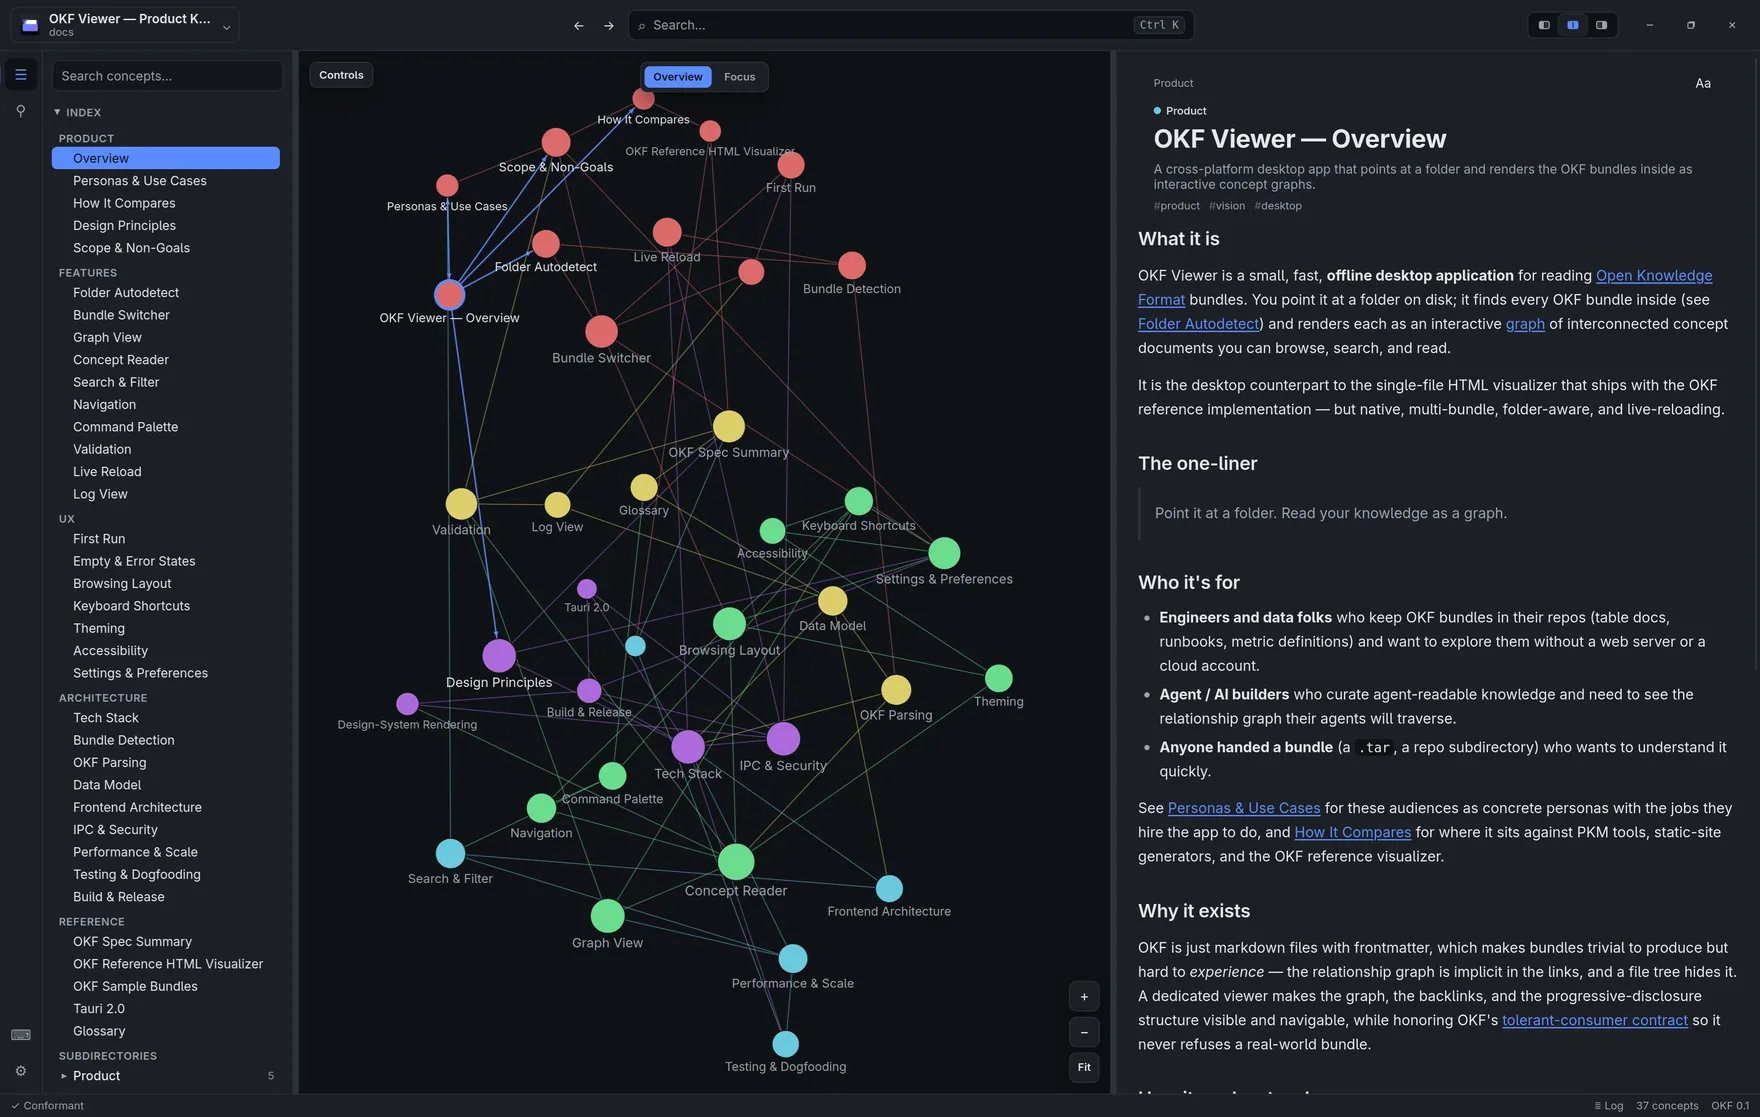
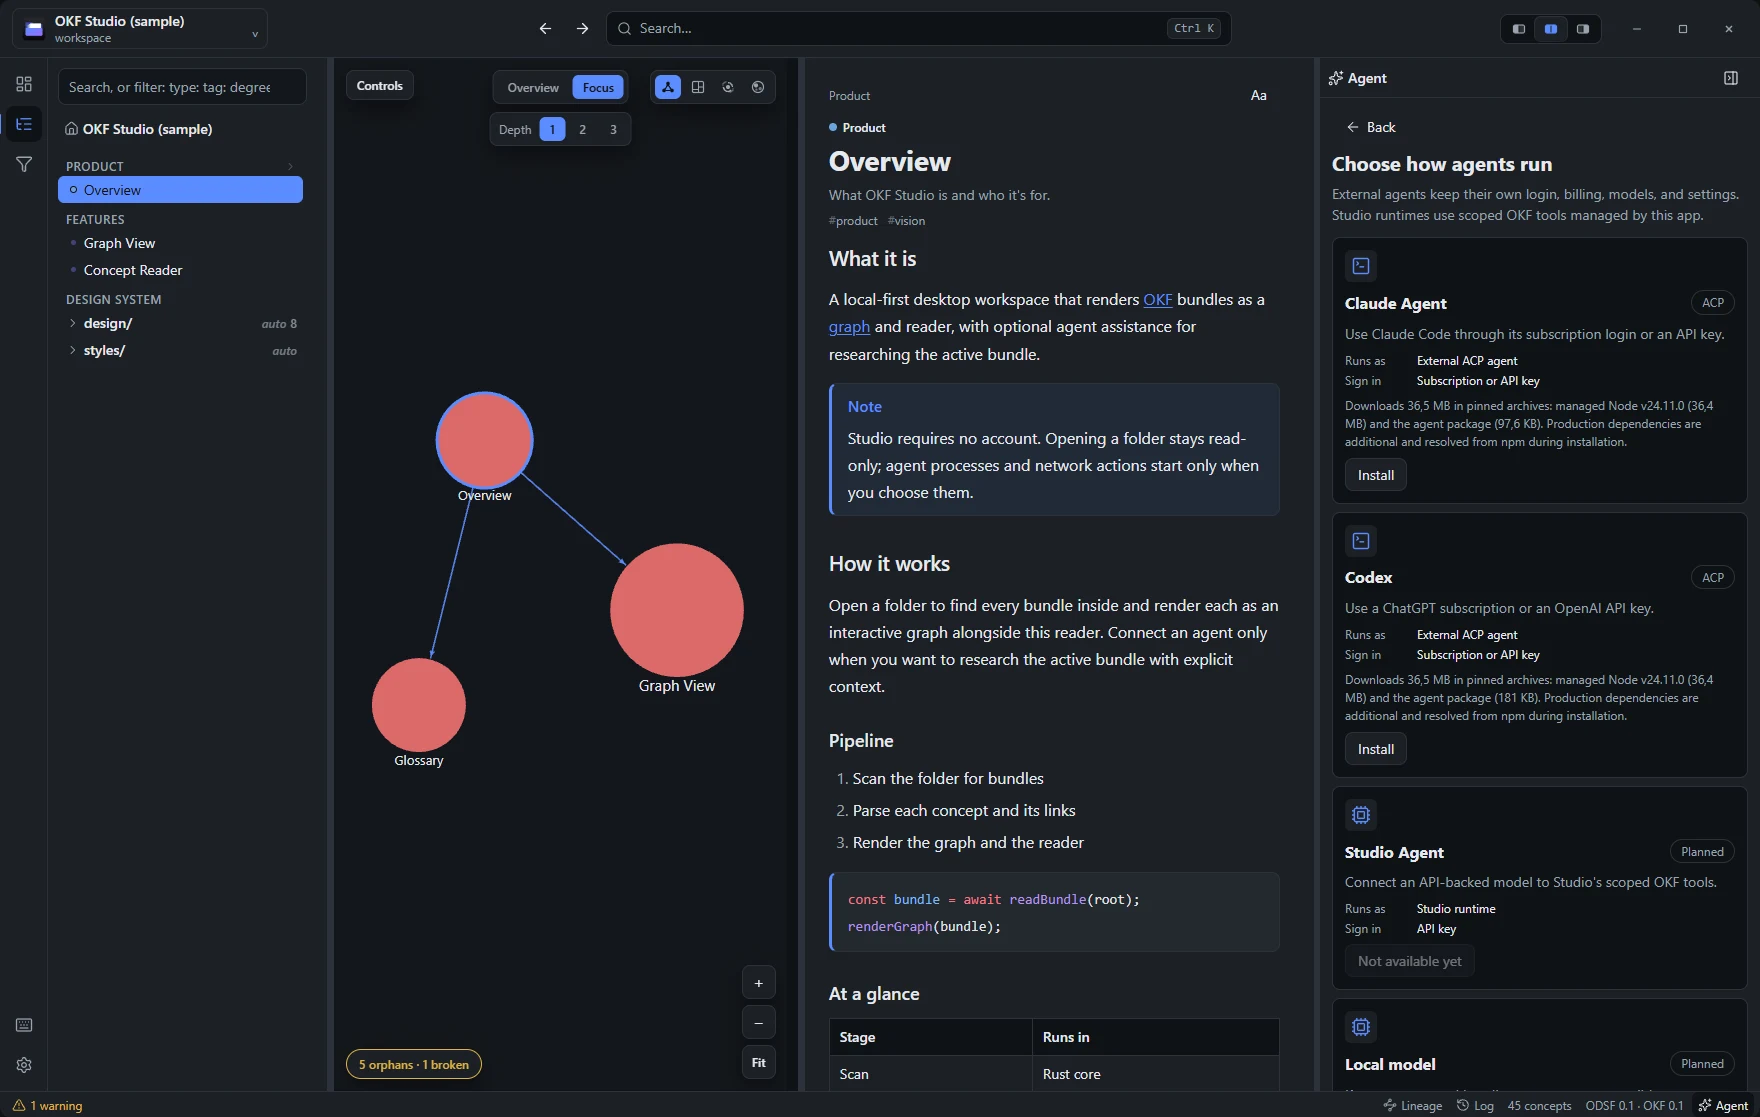
feat(studio): adopt connected-knowledge proposition

diff --git a/src/mock/fixture.ts b/src/mock/fixture.ts
@@ -20,10 +20,10 @@ const raw: RawConcept[] = [
     extra: {},
     body:
       "## What it is\n\n" +
-      "A desktop app that renders [OKF](../reference/glossary.md) bundles as a [graph](../features/graph-view.md). It is built for the analyst who keeps a folder of markdown notes and wants to traverse the cross-links offline, without a server.\n\n" +
-      "> [!NOTE]\n> Everything ships in one binary — no signup, no telemetry, nothing leaves your machine.\n\n" +
+      "A local-first desktop workspace that renders [OKF](../reference/glossary.md) bundles as a [graph](../features/graph-view.md) and reader, with optional agent assistance for researching the active bundle.\n\n" +
+      "> [!NOTE]\n> Studio requires no account. Opening a folder stays read-only; agent processes and network actions start only when you choose them.\n\n" +
       "## How it works\n\n" +
-      "Point it at a folder; it finds every bundle inside and renders each as an interactive graph alongside this reader.\n\n" +
+      "Open a folder to find every bundle inside and render each as an interactive graph alongside this reader. Connect an agent only when you want to research the active bundle with explicit context.\n\n" +
       "### Pipeline\n\n" +
       "1. Scan the folder for bundles\n2. Parse each concept and its links\n3. Render the graph and the reader\n\n" +
       "```ts\nconst bundle = await readBundle(root);\nrenderGraph(bundle);\n```\n\n" +
@@ -391,7 +391,7 @@ export const MOCK_BUNDLE: Bundle = {
       dir: "",
       title: "OKF Studio (sample)",
       intro:
-        "This is the built-in **sample bundle** — the viewer dogfooding itself. " +
+        "This is the built-in **sample bundle** — Studio dogfooding itself. " +
         "It renders the [OKF](reference/glossary.md) concepts in this folder as a graph you can browse, " +
         "search, and read. Start anywhere: the sidebar mirrors this index, and every folder is a door.",
       synthesized: false,

diff --git a/src/components/EmptyState.tsx b/src/components/EmptyState.tsx
@@ -58,7 +58,7 @@ export function EmptyState() {
     <div className="empty hero">
       <h1 className="hero-title">OKF Studio</h1>
       <p className="hero-tagline">
-        Point it at a folder. Read your knowledge as a graph.
+        Explore connected knowledge with the agents you already use.
       </p>
       <div className="hero-cta">
         <button className="btn primary lg" onClick={() => void actions.openFolder()}>
@@ -74,8 +74,8 @@ export function EmptyState() {
       </p>
       <p className="empty-line hero-what">
         An OKF bundle is a folder of markdown concepts, cross-linked into a
-        graph. Point at a local folder, or fetch one from a URL — it's read only
-        either way.
+        graph. Open a local folder or URL without changing its files. Agent
+        connections start only when you choose.
       </p>
 
       {REMOTE_EXAMPLES.length > 0 && (

diff --git a/design-system/patterns/hero.example.html b/design-system/patterns/hero.example.html
@@ -36,8 +36,8 @@
   <div class="canvas">
     <section class="hero">
       <span class="eyebrow">OKF Studio · v0.2</span>
-      <h1 class="hero__title">Read your knowledge<br>as a graph.</h1>
-      <p class="hero__sub">A fast, native desktop reader for Open Knowledge Format bundles. Point it at a folder to explore concepts, links, and structure.</p>
+      <h1 class="hero__title">Explore connected knowledge<br>with your agents.</h1>
+      <p class="hero__sub">Open an OKF bundle as a graph and reader, then connect a compatible ACP agent when you want to research it with explicit context.</p>
       <div class="hero__cta">
         <a class="btn btn--primary" href="#download">↓ Download for free</a>
         <a class="btn btn--secondary" href="#">View on GitHub</a>

diff --git a/design-system/components/feature-card.example.html b/design-system/components/feature-card.example.html
@@ -11,8 +11,8 @@
 <body>
   <article class="feature-card">
     <span class="feature-card__glyph" aria-hidden="true">◱</span>
-    <h3 class="feature-card__title">Read as a graph</h3>
-    <p class="feature-card__body">Point it at a folder and explore your knowledge as a connected graph.</p>
+    <h3 class="feature-card__title">Research with an agent</h3>
+    <p class="feature-card__body">Connect a compatible agent to research the active bundle with explicit context.</p>
   </article>
 </body>
 </html>

diff --git a/src/a11y.test.tsx b/src/a11y.test.tsx
@@ -42,7 +42,7 @@ async function openBundle(user: ReturnType<typeof userEvent.setup>) {
 describe("accessibility (axe-core)", () => {
   it("the first-run empty state has no violations", async () => {
     const { container } = renderApp();
-    await screen.findByText(/Read your knowledge as a graph/i);
+    await screen.findByText(/Explore connected knowledge with the agents you already use/i);
     await expectNoViolations(container);
   });
 

diff --git a/src/App.test.tsx b/src/App.test.tsx
@@ -35,7 +35,7 @@ describe("OKF Studio app", () => {
   it("shows the first-run empty state", () => {
     renderApp();
     expect(
-      screen.getByText(/Point it at a folder\. Read your knowledge as a graph\./i),
+      screen.getByText(/Explore connected knowledge with the agents you already use\./i),
     ).toBeInTheDocument();
   });
 

diff --git a/docs/product/overview.md b/docs/product/overview.md
@@ -1,20 +1,22 @@
 ---
 type: Product
 title: OKF Studio — Overview
-description: A cross-platform desktop app that points at a folder and renders the OKF bundles inside as interactive concept graphs.
+description: A local-first desktop workspace for exploring connected OKF bundles with optional agent assistance.
 tags: [product, vision, desktop]
-timestamp: 2026-07-11T04:45:00Z
+timestamp: 2026-07-12T00:00:00Z
 ---
 
 # What it is
 
-OKF Studio is a small, fast, **offline desktop application** for reading [Open Knowledge Format](../reference/okf-spec-summary.md) bundles. You point it at a folder on disk; it finds every OKF bundle inside (see [Folder Autodetect](../features/folder-autodetect.md)) and renders each as an interactive [graph](../features/graph-view.md) of interconnected concept documents you can browse, search, and read.
+OKF Studio is a local-first desktop workspace for [Open Knowledge Format](../reference/okf-spec-summary.md) bundles. Open a folder and it finds every bundle inside (see [Folder Autodetect](../features/folder-autodetect.md)), then renders each as an interactive [graph](../features/graph-view.md) and reader. The optional [Agent Panel](../features/agent-panel.md) connects a compatible ACP agent to the active bundle with explicit, bounded context for research and proposed knowledge work.
+
+Folder opening remains read-only. Agent processes and network actions start only when the user chooses them. External agents own their authentication, and Studio requires no account.
 
 It is the desktop counterpart to the single-file HTML visualizer that ships with the OKF reference implementation — but native, multi-bundle, folder-aware, and live-reloading.
 
 # The one-liner
 
-> Point it at a folder. Read your knowledge as a graph.
+> Explore connected knowledge with the agents you already use.
 
 # Who it's for
 
@@ -26,7 +28,7 @@ See [Personas & Use Cases](personas.md) for these audiences as concrete personas
 
 # Why it exists
 
-OKF is just markdown files with frontmatter, which makes bundles trivial to produce but hard to *experience* — the relationship graph is implicit in the links, and a file tree hides it. A dedicated viewer makes the graph, the backlinks, and the progressive-disclosure structure visible and navigable, while honoring OKF's [tolerant-consumer contract](../reference/okf-spec-summary.md) so it never refuses a real-world bundle.
+OKF is markdown with frontmatter, which makes bundles portable but leaves their relationship graph implicit. Studio makes the graph, backlinks, and progressive-disclosure structure visible, then lets an agent research that same scoped knowledge without moving it into a separate tool. The reader still honors OKF's [tolerant-consumer contract](../reference/okf-spec-summary.md) and does not reject a real-world bundle for soft issues.
 
 # How it works at a glance
 
@@ -34,5 +36,6 @@ OKF is just markdown files with frontmatter, which makes bundles trivial to prod
 2. The [Rust core](../architecture/tech-stack.md) scans it and [detects bundles](../architecture/bundle-detection.md).
 3. Each bundle is [parsed](../architecture/okf-parsing.md) into concepts, links, and backlinks.
 4. The frontend renders the [graph](../features/graph-view.md) + [reader](../features/concept-reader.md), with [search](../features/search-and-filter.md), [navigation](../features/navigation.md), and [live reload](../features/live-reload.md).
+5. When chosen, the [Agent Panel](../features/agent-panel.md) starts a compatible agent and attaches only the active bundle and explicit sources through the [Agent System](../architecture/agent-system.md).
 
 This product is shaped by its [Design Principles](principles.md) and bounded by its [Scope & Non-Goals](scope-and-non-goals.md).

diff --git a/AGENTS.md b/AGENTS.md
@@ -1,10 +1,10 @@
 # OKF Studio
 
-A cross-platform **desktop app** (Windows + Ubuntu, macOS for free) that you point at a folder; it **autodetects the OKF bundles inside** and renders each as an interactive graph of interconnected concept documents. Built with **Tauri 2.0** — a Rust core plus the system webview.
+A cross-platform **desktop workspace** (Windows + Ubuntu, macOS for free) that autodetects the OKF bundles in a folder, renders their connected concepts as a graph and reader, and lets the user connect an ACP agent to research the active bundle with explicit context. Built with **Tauri 2.0** — a Rust core plus the system webview.
 
 ## How it's put together
 
-The **Rust core** (`crates/okf-core` + `src-tauri/`) does all filesystem work — [scan a folder for bundles](docs/architecture/bundle-detection.md), [parse each into concepts/links/backlinks](docs/architecture/okf-parsing.md), [validate](docs/features/validation.md), and [watch for changes](docs/features/live-reload.md) — exposing a small [command/event surface](docs/architecture/ipc-and-security.md) that hands the **React 19 + TypeScript frontend** (`src/`, Vite, React Compiler enabled — no manual memoization) ready-to-render JSON ([data model](docs/architecture/data-model.md)). The frontend renders a [force-directed graph](docs/features/graph-view.md) + [concept reader](docs/features/concept-reader.md) with [search](docs/features/search-and-filter.md), [navigation](docs/features/navigation.md), and [theming](docs/ux/theming.md). Read-only, offline, scoped to the chosen folder.
+The **Rust core** (`crates/okf-core` + `src-tauri/`) owns filesystem, process, and network mediation: it [scans a folder for bundles](docs/architecture/bundle-detection.md), [parses concepts/links/backlinks](docs/architecture/okf-parsing.md), [validates](docs/features/validation.md), [watches for changes](docs/features/live-reload.md), and hosts explicit [agent connections](docs/architecture/agent-system.md). Its typed [command/event surface](docs/architecture/ipc-and-security.md) hands the **React 19 + TypeScript frontend** (`src/`, Vite, React Compiler enabled — no manual memoization) ready-to-render state. The frontend combines the [graph](docs/features/graph-view.md), [concept reader](docs/features/concept-reader.md), [search](docs/features/search-and-filter.md), [navigation](docs/features/navigation.md), and [Agent Panel](docs/features/agent-panel.md). Folder opening remains read-only; agent processes and network actions start only after explicit user actions.
 
 ```
 okf-viewer/
@@ -117,6 +117,6 @@ When you add or change a feature, decision, or flow, update the bundle **in the 
 ## Conventions
 
 - **Rust owns the filesystem; the frontend owns rendering.** The webview gets no direct fs/network access — only [commands/events](docs/architecture/ipc-and-security.md).
-- **Read-only, offline, scoped** always (see [principles](docs/product/principles.md)). Opening an untrusted bundle must be safe.
+- **Read-only folder opening and explicit external activity** (see [principles](docs/product/principles.md)). Opening an untrusted bundle must be safe. Agent processes and network requests start only from a user action, and bundle writes remain disabled until reviewed-write grants ship.
 - **Tolerant consumer:** never refuse a bundle for soft issues (missing fields, unknown `type`, broken links, missing `index.md`); surface them via [Validation](docs/features/validation.md) instead.
 - **Capabilities stay least-privilege** (`src-tauri/capabilities/`): read-only `fs` scoped to the chosen folder, dialog open, store. Network only where a principle-level exception is recorded (updater, explicit open-from-URL fetch).

diff --git a/docs/ux/first-run.md b/docs/ux/first-run.md
@@ -3,7 +3,7 @@ type: UX Flow
 title: First Run
 description: The flow from launching the app with nothing open to browsing a detected bundle.
 tags: [ux, flow, onboarding]
-timestamp: 2026-07-04T18:00:00Z
+timestamp: 2026-07-12T00:00:00Z
 ---
 
 # Goal
@@ -12,7 +12,7 @@ A new user gets from "app just opened" to "reading a graph" in two clicks, with 
 
 # Flow
 
-1. **Launch → empty state.** A centered prompt explains the app in one line and offers a primary **Open Folder…** button (native OS dialog) beside a secondary **Open from URL…** (`Ctrl/Cmd + Shift + O`) for a [remote bundle](../features/bundle-switcher.md). Below, a one-click **example** card (this docs bundle) lets a brand-new user with no local bundle see the viewer work immediately — the remote-open path doubles as onboarding. The empty state also briefly says what an OKF bundle is, linking the [spec summary](../reference/okf-spec-summary.md). See [Empty & Error States](empty-and-error-states.md) for this and the other no-content states.
+1. **Launch → empty state.** A centered prompt introduces Studio as connected knowledge that can be explored with user-chosen agents. It offers a primary **Open Folder…** button (native OS dialog) beside a secondary **Open from URL…** (`Ctrl/Cmd + Shift + O`) for a [remote bundle](../features/bundle-switcher.md). Below, a one-click **example** card (this docs bundle) lets a new user see the graph and reader immediately. The fine print states that opening a bundle does not change its files and agent connections start only when chosen. See [Empty & Error States](empty-and-error-states.md) for this and the other no-content states.
 2. **Pick a folder.** The OS folder picker opens (via the Tauri dialog plugin — see [IPC & Security](../architecture/ipc-and-security.md)). The chosen path becomes the read-only [scope](../architecture/ipc-and-security.md).
 3. **Scanning.** A brief progress indicator while the [Rust core](../architecture/bundle-detection.md) walks the folder. Large folders stay responsive; scanning is cancelable.
 4. **Result.**

diff --git a/docs/log.md b/docs/log.md
@@ -1,6 +1,7 @@
 # Update Log
 
 ## 2026-07-12
+* **Update**: Replaced the read-only graph-viewer one-liner with **Explore connected knowledge with the agents you already use.** First-run, product, package, README, and site copy now describe the shipped graph, reader, and opt-in Agent Panel without claiming reviewed writes. Folder opening remains read-only, external activity remains explicit, and Studio still requires no account.
 * **Creation**: Added bounded Studio metadata for history-capable agents. Studio remembers one title and opaque ACP session pointer per bundle and agent profile, then offers it after reconnect. Resume first repeats the bundle-filtered live session list and loads only an ID returned there. Stale pointers fail explicitly; dismiss removes them. The store excludes transcript text, prompts, attachments, tool activity, credentials, permissions, usage, and diagnostics.
 * **Creation**: Added explicit retry for accepted ACP turns that end in failure. Studio retains the already-bounded prompt snapshot in memory, keeps partial output visible, and resubmits it as a distinct turn only while the same session is idle. A retry rejected before acceptance leaves its error and action on the failure record. Successful acceptance removes the old action. Completed, cancelled, refused, and limited turns do not offer retry.
 * **Creation**: Added capability-gated ACP session history. Agents advertising both list and load can show up to 50 sessions whose reported working directory exactly matches the canonical active bundle. Restore accepts only an ID returned by that filtered list on the same connection, reattaches the scoped OKF MCP server, and reduces replay to 200 plain-text messages and 512 KiB. Unsupported agents show no action; loading, empty, error, retry, and restoring states remain explicit.

diff --git a/docs/ux/empty-and-error-states.md b/docs/ux/empty-and-error-states.md
@@ -3,7 +3,7 @@ type: UX Flow
 title: Empty & Error States
 description: Every no-content, loading, and failure state — what it shows and how to recover.
 tags: [ux, flow, errors, empty-states]
-timestamp: 2026-06-29T12:00:00Z
+timestamp: 2026-07-12T00:00:00Z
 ---
 
 # Stance
@@ -12,7 +12,7 @@ Report, never refuse. Like the [tolerant-consumer principle](../product/principl
 
 # No content yet
 
-- **Nothing open.** On launch with no folder chosen, a centered prompt explains the app in one line and offers **Open Folder…**; the top-left [Bundle Switcher](../features/bundle-switcher.md) also surfaces any recently-opened bundles. This is the [First Run](first-run.md) empty state.
+- **Nothing open.** On launch with no folder chosen, the connected-knowledge proposition appears above **Open Folder…** and **Open from URL…**. The supporting copy states that opening a bundle does not change its files and agents connect only when chosen. The top-left [Bundle Switcher](../features/bundle-switcher.md) also surfaces recent bundles. This is the [First Run](first-run.md) empty state.
 - **Scanning.** While the [Rust core](../features/folder-autodetect.md) walks the folder, a progress indicator shows; the scan is **cancelable** and the app stays responsive.
 - **No bundles found.** A helpful empty state explains what an OKF bundle is (a directory of `.md` concepts — see the [spec summary](../reference/okf-spec-summary.md)) and how to point at a real one, with **Open Folder…** to try again.
 - **Bundle with zero concepts.** A detected-but-empty bundle opens to an empty graph and reader with a one-line note that the bundle has no concepts yet, not an error.

diff --git a/README.md b/README.md
@@ -4,7 +4,7 @@
 
 <h1 align="center">OKF Studio</h1>
 
-<p align="center"><strong>Point it at a folder. Read your knowledge as a graph.</strong></p>
+<p align="center"><strong>Explore connected knowledge with the agents you already use.</strong></p>
 
 <p align="center">
   <a href="https://saschb2b.github.io/okf-viewer/">Homepage</a>
@@ -22,7 +22,7 @@
   </a>
 </p>
 
-OKF Studio is a fast, native desktop app for reading [Open Knowledge Format](https://github.com/GoogleCloudPlatform/knowledge-catalog/tree/main/okf) bundles. Point it at a folder; it autodetects the OKF bundles inside and renders each as an interactive graph of interconnected concepts, alongside a markdown reader with backlinks, search, filters, validation, and live reload. It is offline, read-only, and built with [Tauri 2](https://tauri.app/) (a Rust core plus the system webview). Windows, macOS, and Linux.
+OKF Studio is a local-first desktop workspace for [Open Knowledge Format](https://github.com/GoogleCloudPlatform/knowledge-catalog/tree/main/okf) bundles. Open a folder and it detects the bundles inside, then renders each as an interactive graph and markdown reader with backlinks, search, validation, and live reload. Connect a compatible ACP agent when you want to research the active bundle with selected concepts, files, structured data, PDFs, images, or bounded web sources. Folder opening remains read-only, connections start only when chosen, and there is no Studio account. Built with [Tauri 2](https://tauri.app/) for Windows, macOS, and Linux.
 
 ## Download
 
